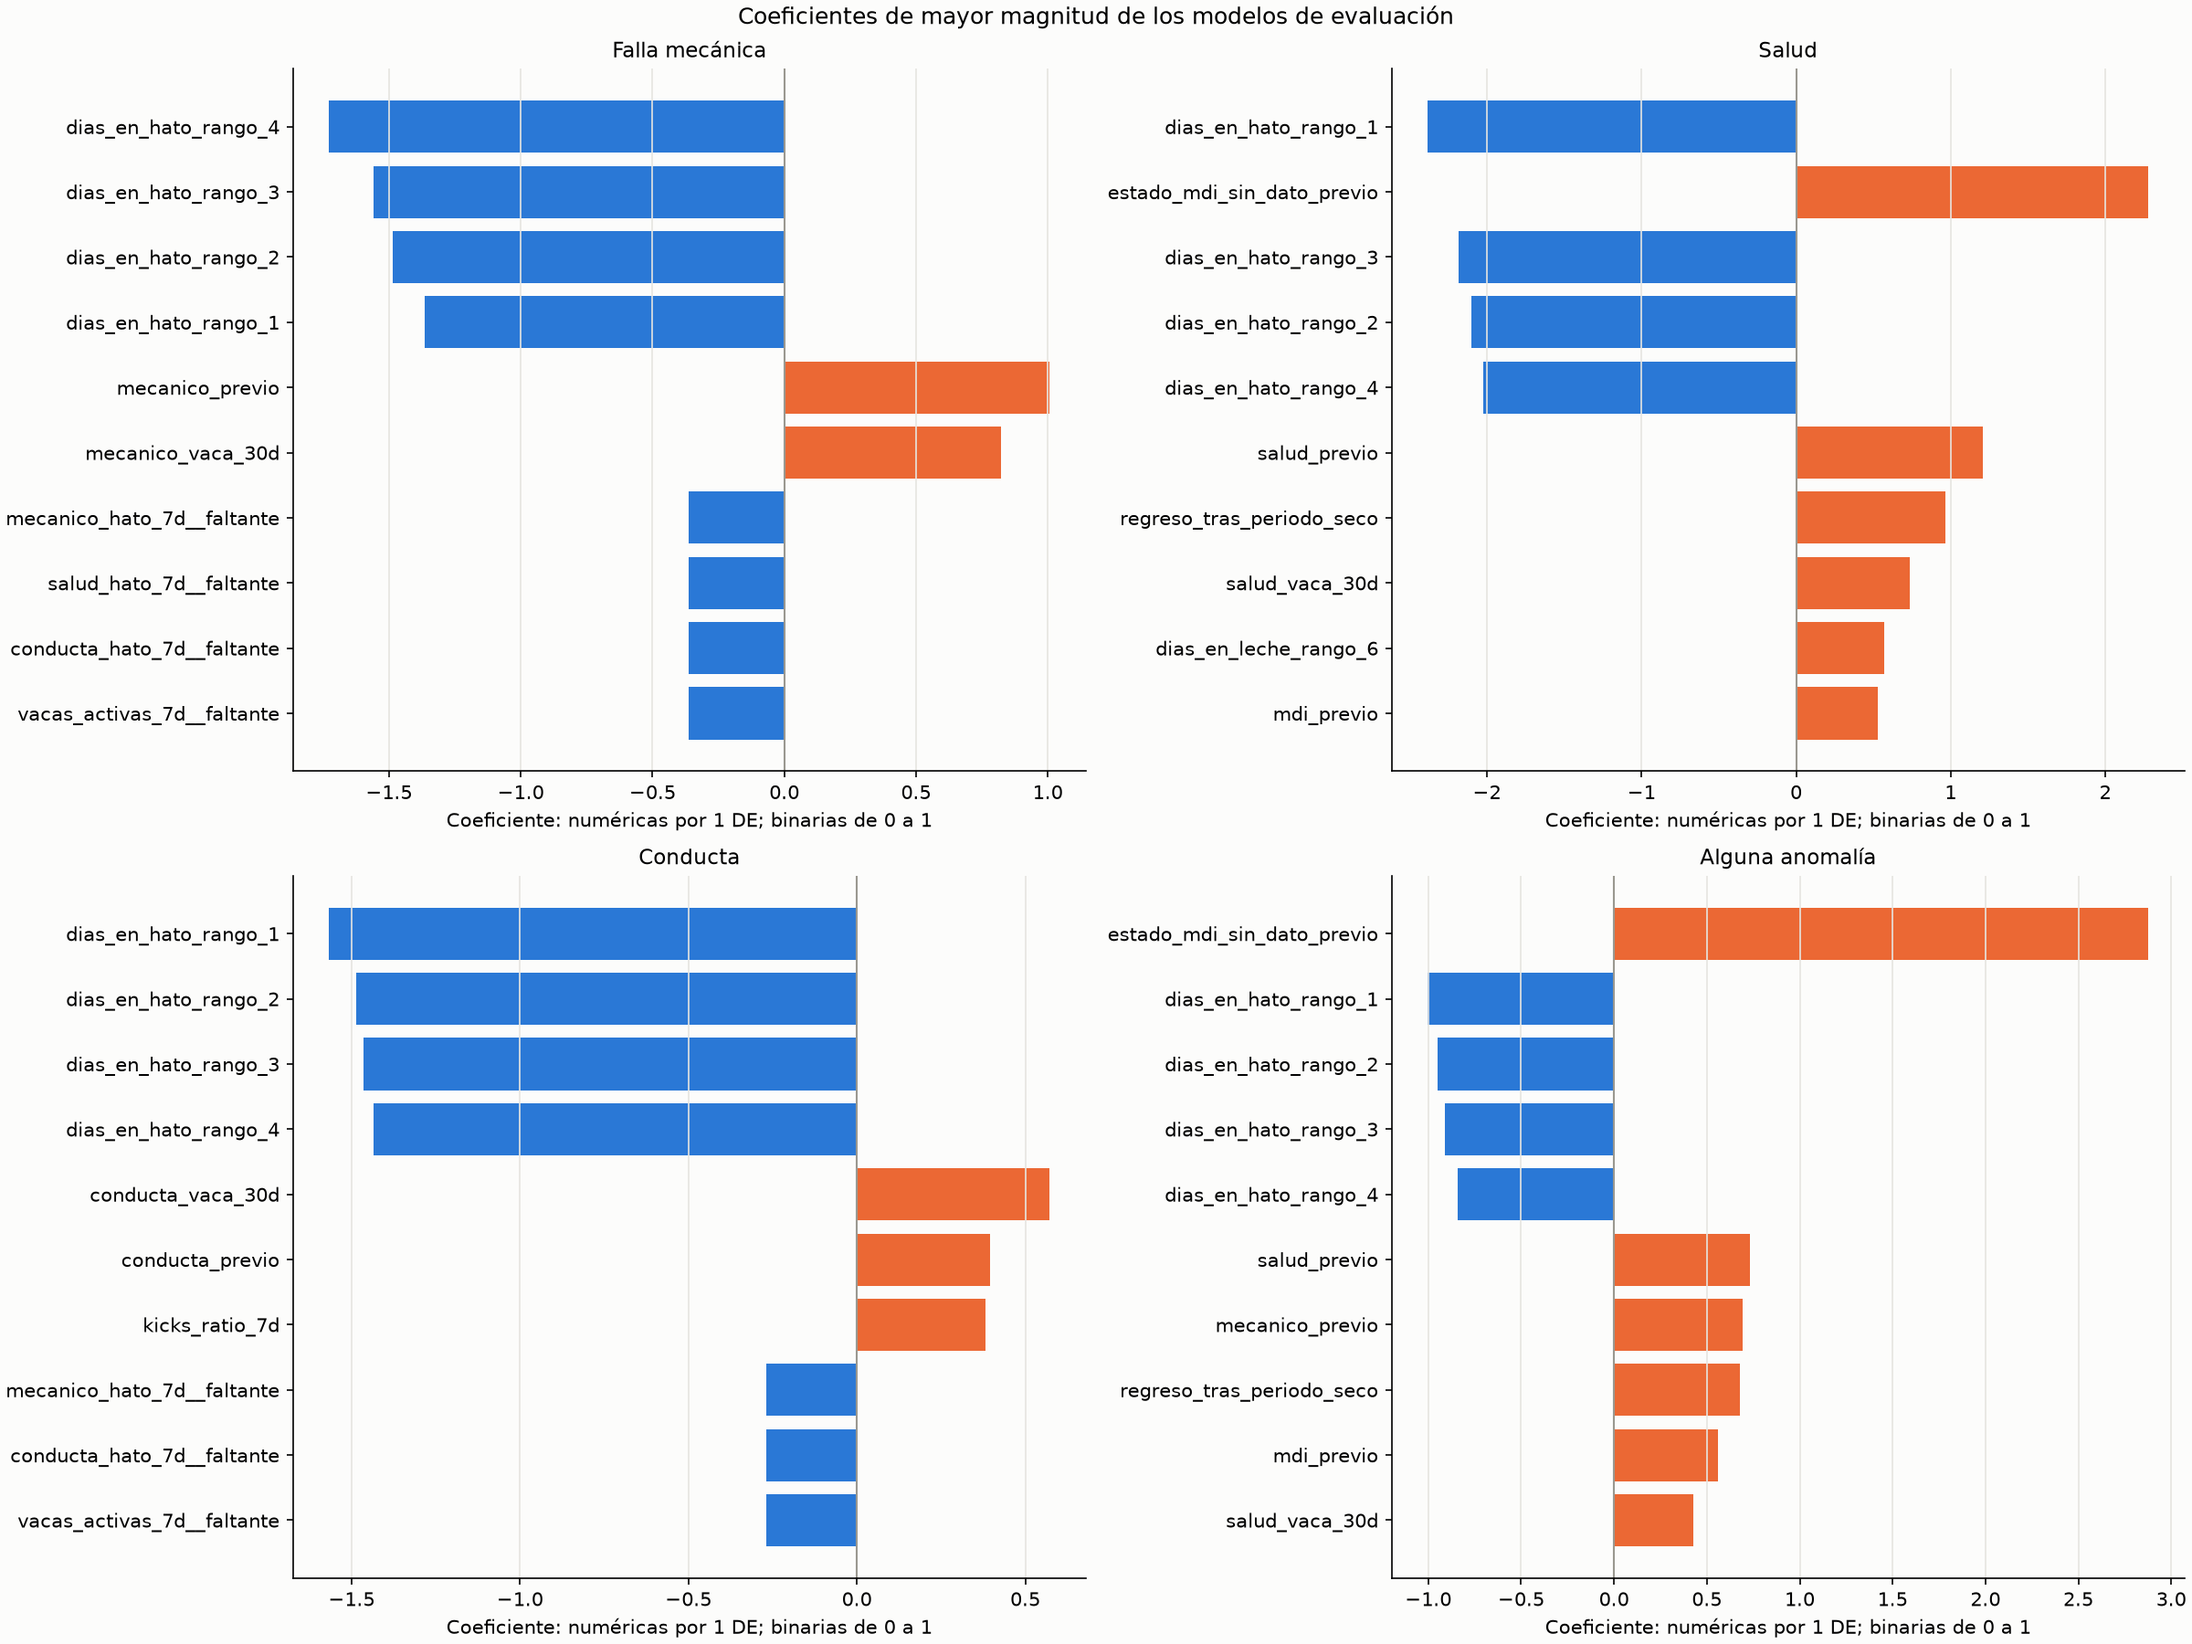
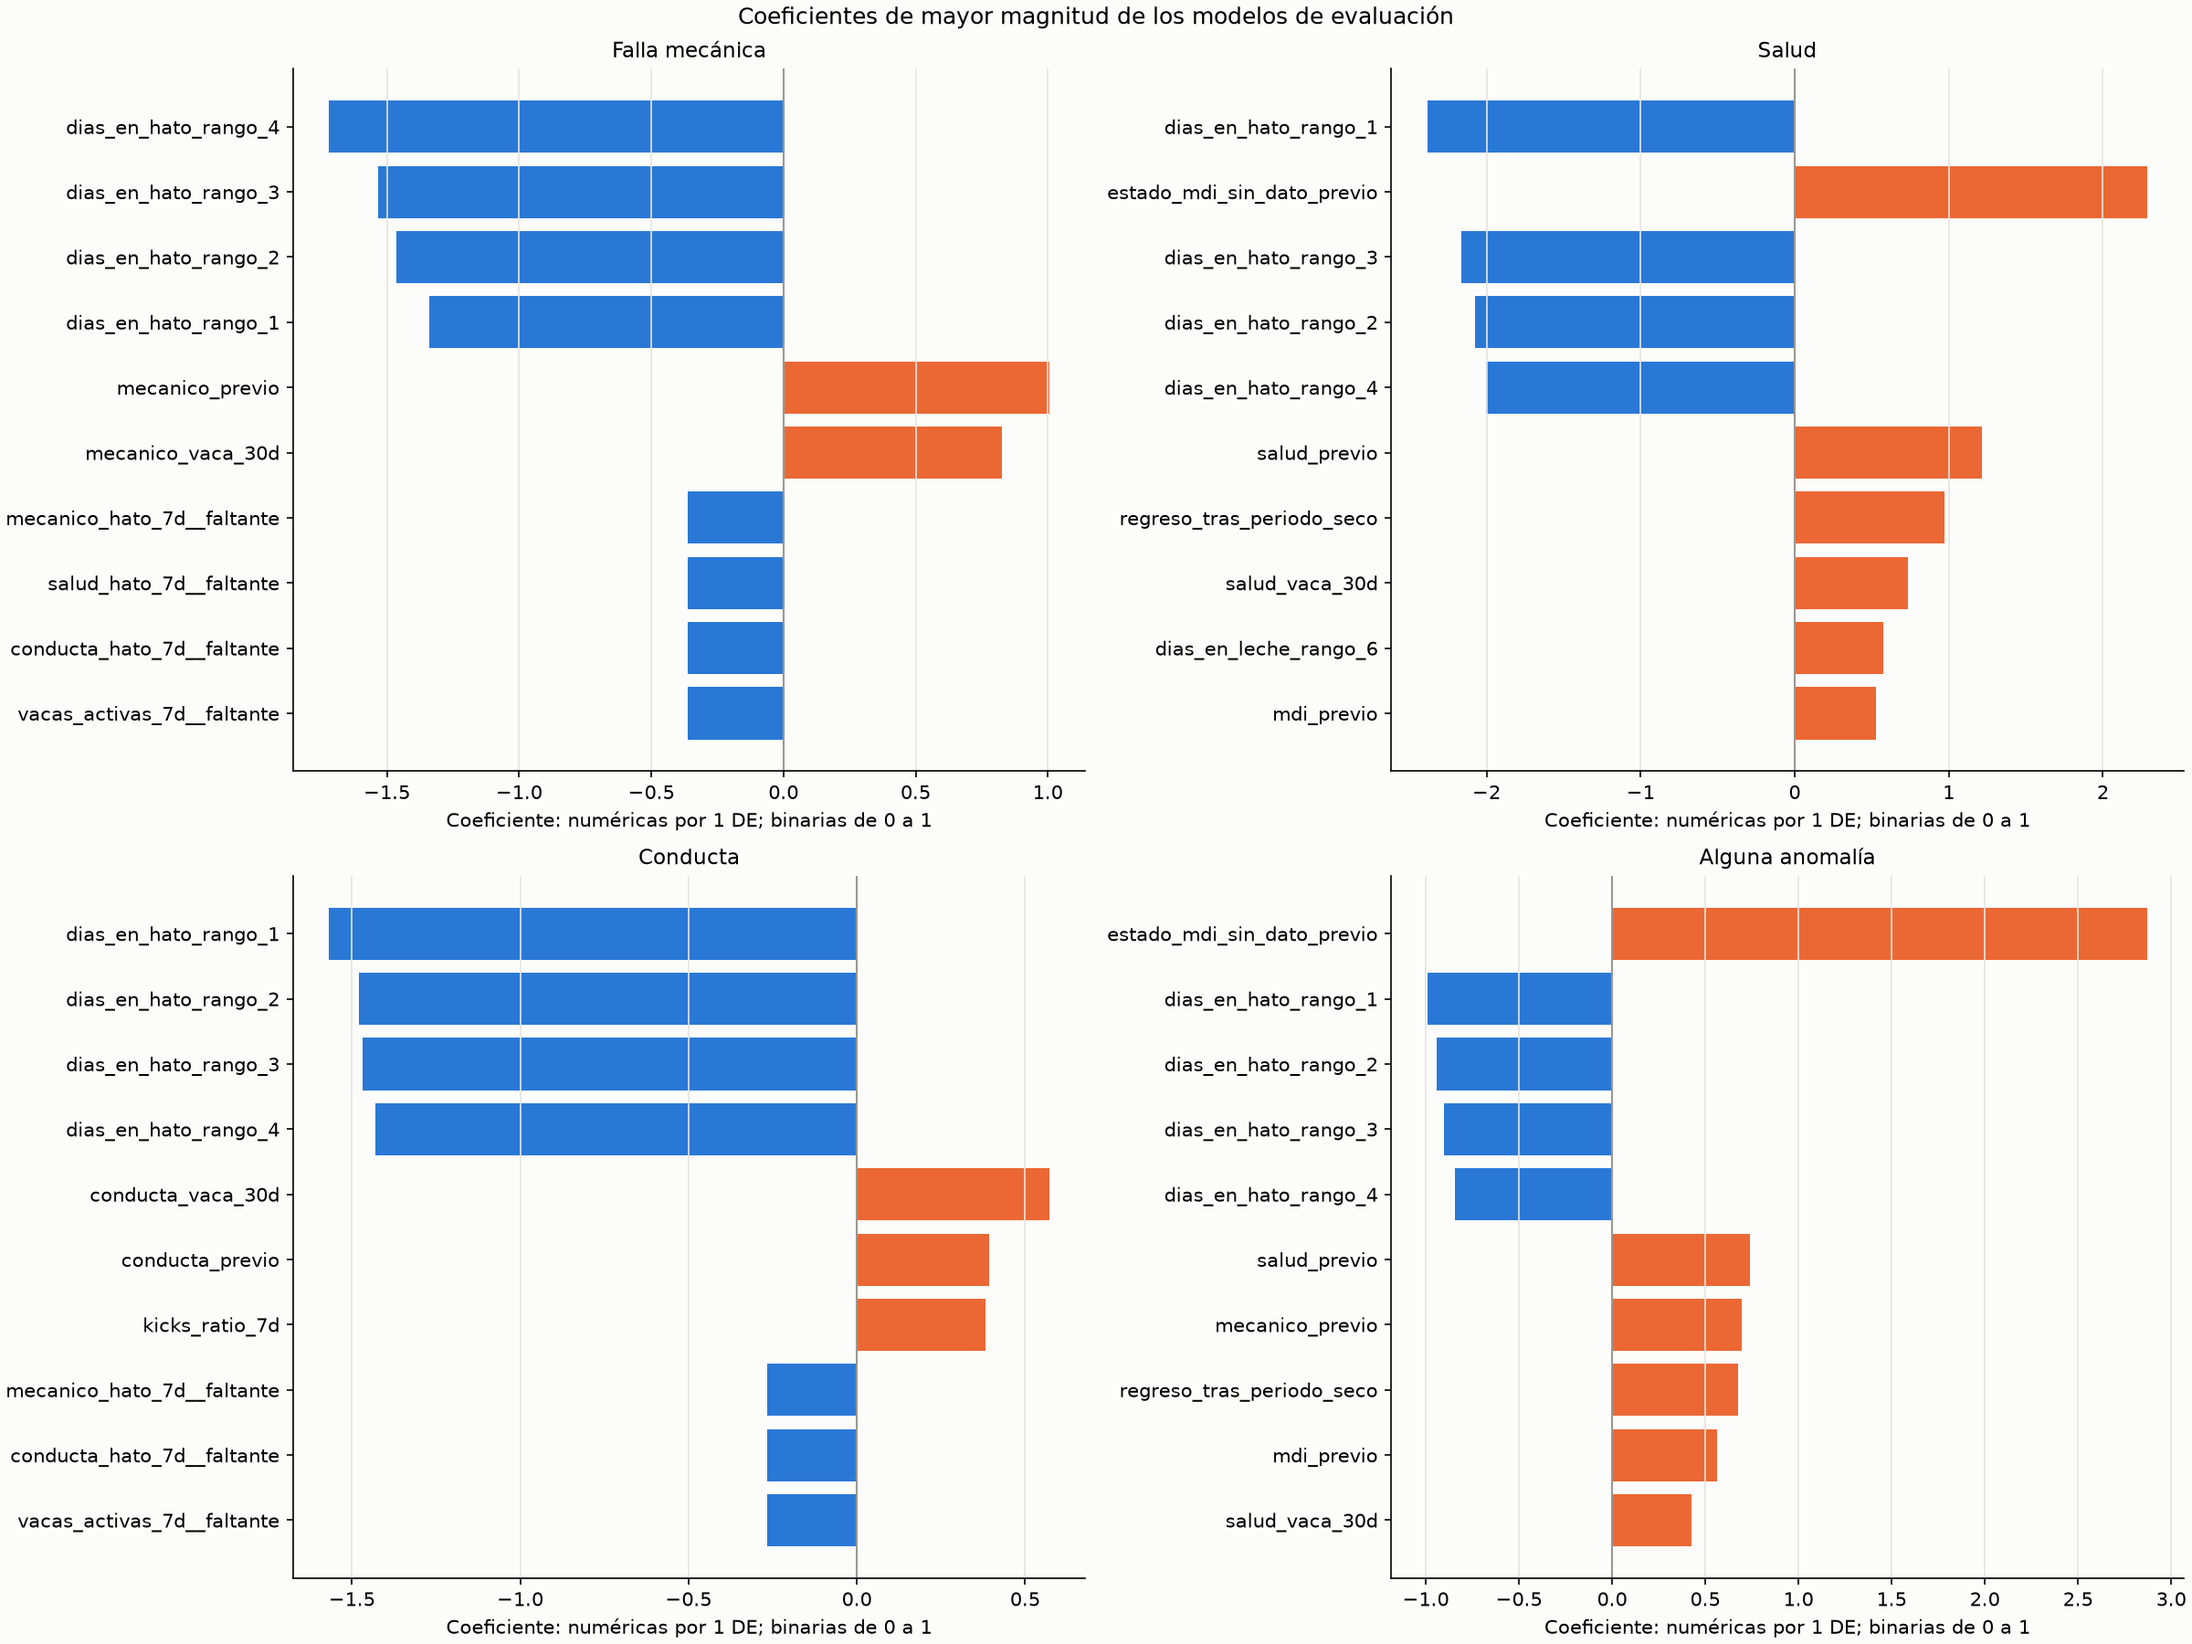
update: Agrega las 3 sesiones previamente excluidas, corre modelo y genera nuevas graficas

Changed region(s): [[0.8125, 0.9644, 0.9062, 0.9956], [0.7812, 0.4978, 0.875, 0.5289], [0.6875, 0.9644, 0.7812, 0.9956]]

diff --git a/src/MODELING/logistic/main.py b/src/MODELING/logistic/main.py
@@ -73,16 +73,6 @@ def run(input_path=INPUT_PATH, output_dir=OUTPUT_DIR, config=None):
     sessions = load_sessions(input_path)
     labels = get_labels(sessions)
     parts, split = split_by_time(sessions["inicio"], TRAIN_FRACTION, VAL_FRACTION)
-    # Un resultado que todavía no terminó al corte no puede entrenar ni elegir umbrales.
-    completion = sessions["inicio"] + pd.to_timedelta(sessions["duracion_seg"], unit="s")
-    split["unavailable_labels_purged"] = {}
-    for name, boundary in (("train", split["train_end"]), ("val", split["val_end"])):
-        rows = parts[name]
-        available = completion.iloc[rows].lt(pd.Timestamp(boundary)).to_numpy()
-        split["unavailable_labels_purged"][name] = int((~available).sum())
-        parts[name] = rows[available]
-        print(f"[split] {name}: {len(parts[name]):,} etiquetas disponibles; {int((~available).sum())} aún sin terminar al corte", flush=True)
-    split["counts"] = {name: len(rows) for name, rows in parts.items()}
     print("[features] Reutilizando atributos de DP y construyendo historial adicional", flush=True)
     X = build_features(sessions)
     cows = sessions["id_vaca"]
